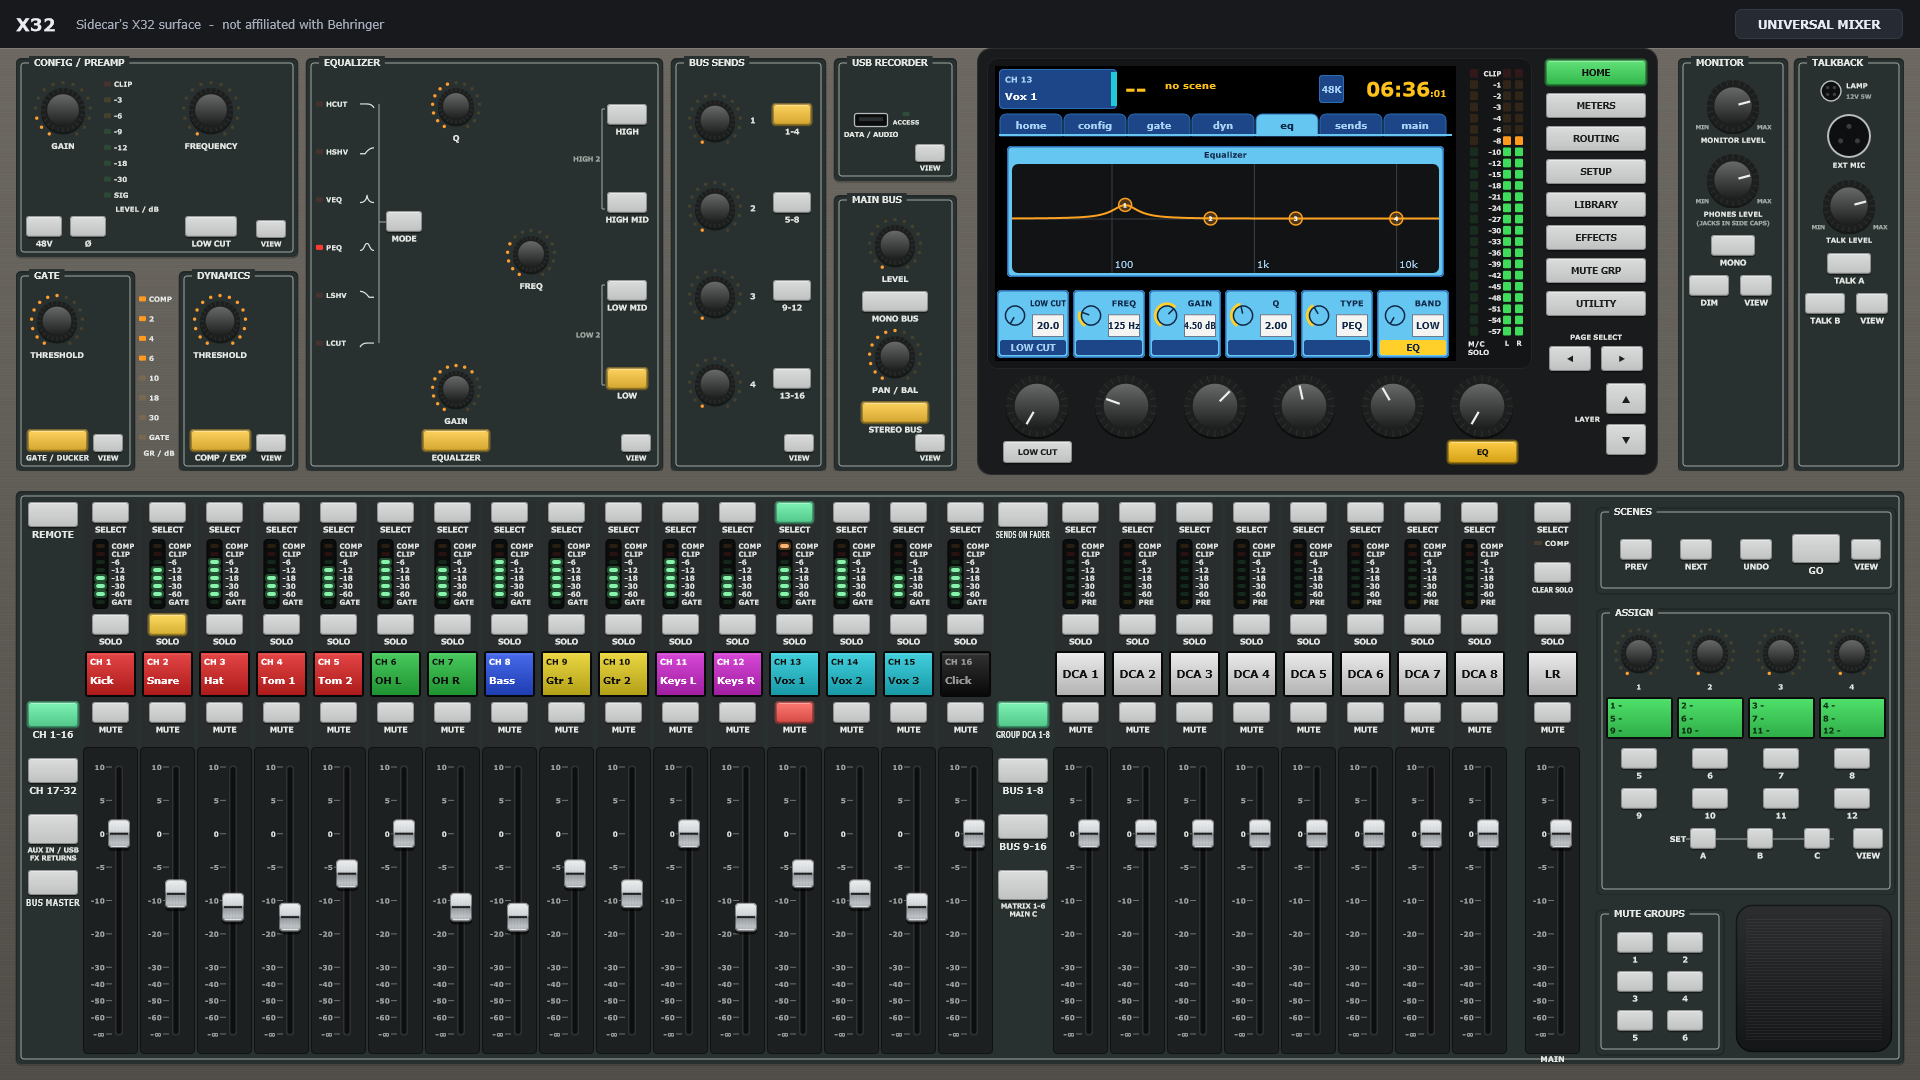
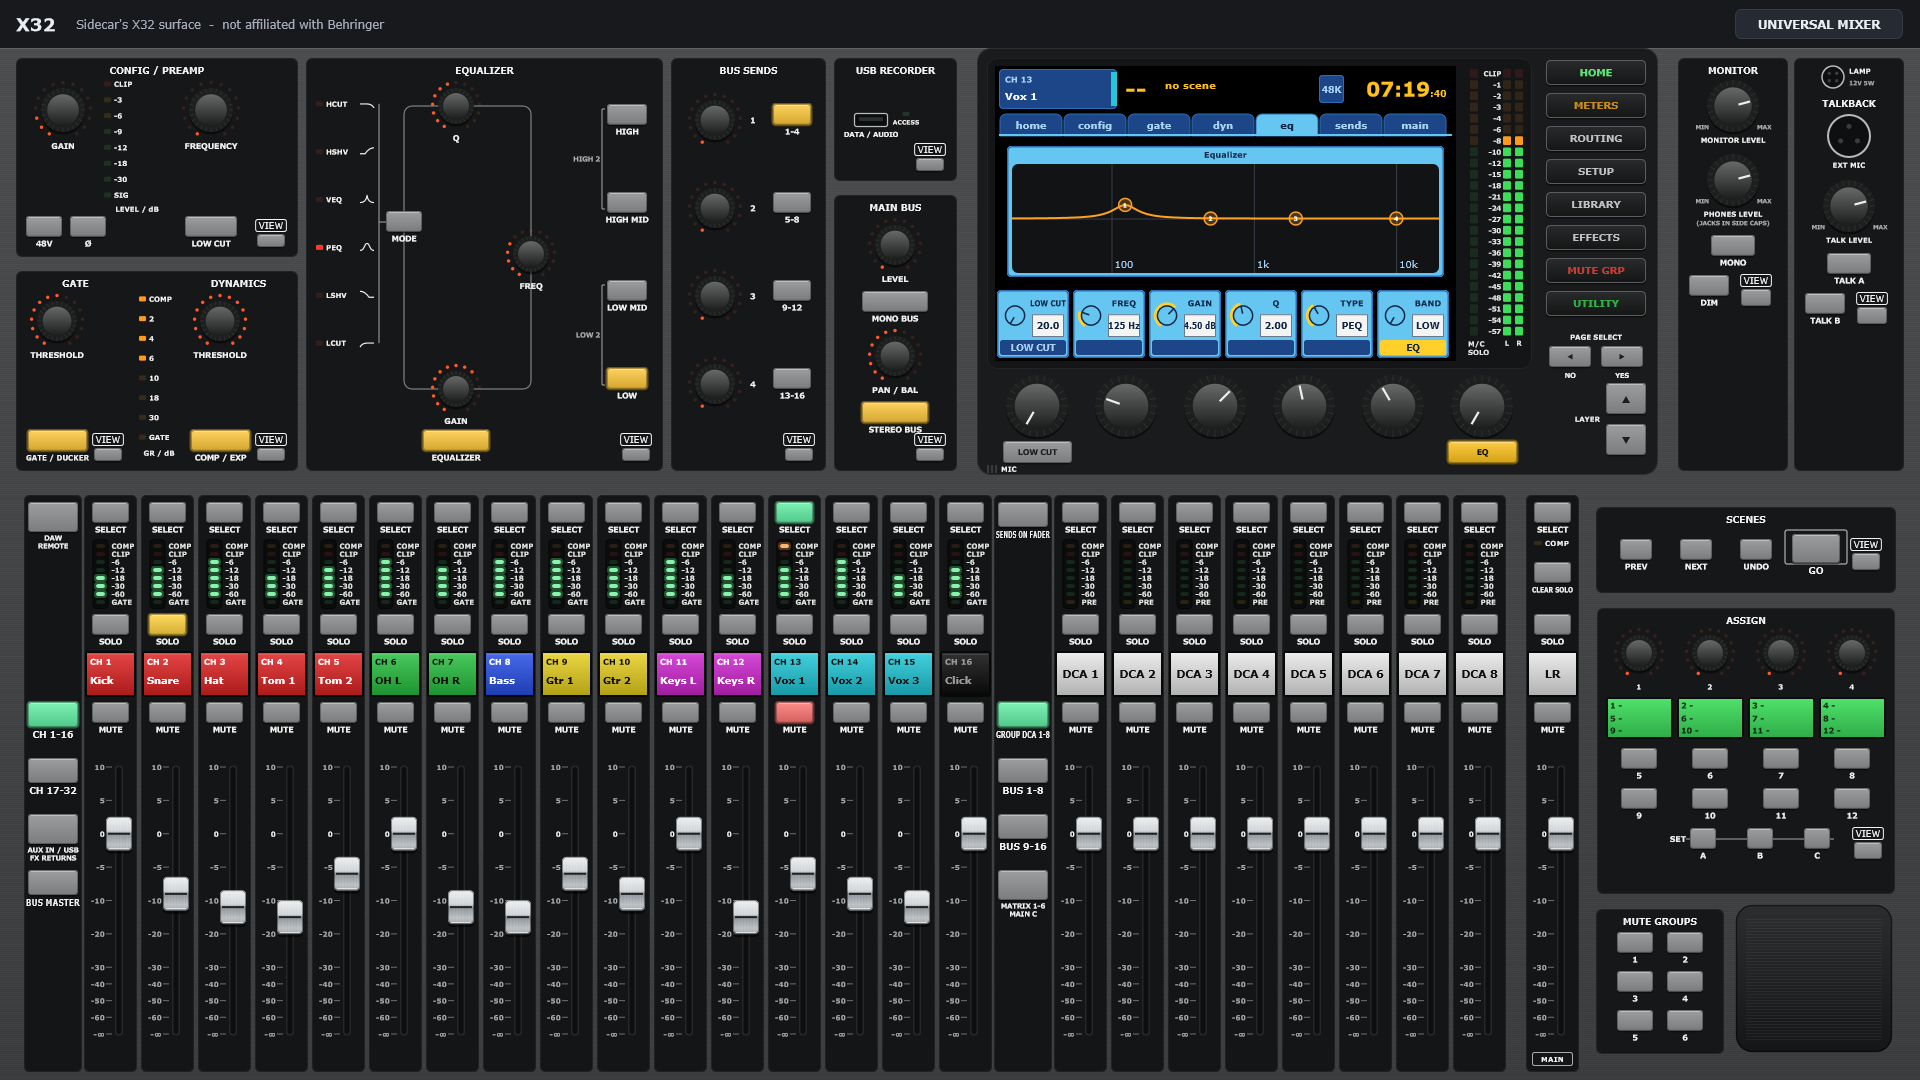
The X32 surface's colours and keys as the console's photo shows them
A neutral dark grey top with the sections on black panels (titles centred,
GATE and DYNAMICS on one), each strip on its own black band, mid-grey keys,
MUTE lit salmon, red-orange encoder rings, black screen keys with coloured
names, VIEW boxed over its keys, DAW REMOTE, TALKBACK under LAMP, NO/YES
under PAGE SELECT, MIC on the housing, the EQ's printed loop, GO's frame.

diff --git a/src/ui/X32Surface.cpp b/src/ui/X32Surface.cpp
@@ -100,6 +100,7 @@ X32Surface::X32Surface (UiContext& c)
     clearSolo.isOn = [this] { return ctx.engine.anySoloActive.load(); };
     clearSolo.onClick = [this] { clearSolos(); };
     addAndMakeVisible (clearSolo);
+    remoteKey.belowText = "DAW\nREMOTE";
     remoteKey.setEnabled (false);
     remoteKey.setTooltip ("DAW remote: Sidecar has none");
     addAndMakeVisible (remoteKey);
@@ -164,7 +165,12 @@ X32Surface::X32Surface (UiContext& c)
             if (child == &display || child == &universalKey)
                 continue;
             if (auto* k = dynamic_cast<ToggleKey*> (child))
-                k->labelBelow = true;
+            {
+                // VIEW keys have their name in a small box over them.
+                const bool view = k->getButtonText() == "VIEW";
+                k->labelBelow = ! view;
+                k->labelAbove = view;
+            }
             namesBelow (*child);
         }
     };
@@ -415,18 +421,33 @@ void X32Surface::paint (juce::Graphics& g)
     g.setColour (juce::Colours::white.withAlpha (0.08f));
     g.drawRoundedRectangle (displayArea.toFloat().expanded (9.5f), 14.0f, 1.0f);
 
-    // The fader panel: the strips' columns as darker bands, the layer columns.
-    hw::section (g, fadersArea.toFloat(), {}, look);
+    // The fader panel: each strip and layer column on its own black band, the
+    // panel's grey between them.
     const auto column = [&g] (juce::Rectangle<int> r)
     {
-        g.setColour (juce::Colour (0xff2a2d2e));
-        g.fillRoundedRectangle (r.toFloat(), 4.0f);
+        g.setColour (juce::Colour (0xff141516));
+        g.fillRoundedRectangle (r.toFloat(), 5.0f);
+        g.setColour (juce::Colours::white.withAlpha (0.05f));
+        g.drawRoundedRectangle (r.toFloat().reduced (0.5f), 5.0f, 1.0f);
     };
+    const int top = inputs.front()->getY() - 6, bottom = inputs.front()->getBottom() + 18;
+    const auto band = [&] (const juce::Component& c) { column (juce::Rectangle<int> (c.getX() + 2, top, c.getWidth() - 4, bottom - top)); };
     for (int i = 0; i < getNumInputFaders(); ++i)
-        column (inputs[(size_t) i]->getBounds().reduced (2, 0));
+        band (*inputs[(size_t) i]);
     for (auto& s : groups)
-        column (s->getBounds().reduced (2, 0));
-    column (main->getBounds().reduced (2, 0));
+        band (*s);
+    band (*main);
+    for (auto* keys : { &inputLayerKeys, &groupLayerKeys })
+        if (! keys->empty())
+            column (juce::Rectangle<int> (keys->front()->getX() - 2, top, keys->front()->getWidth() + 4, bottom - top));
+    // The display housing's MIC, at its bottom left.
+    {
+        auto mic = juce::Rectangle<float> ((float) displayArea.getX() - 2.0f, (float) displayArea.getBottom() - 2.0f, 60.0f, 12.0f);
+        g.setColour (juce::Colour (0xff3a3b3c));
+        for (int k = 0; k < 3; ++k)
+            g.fillRect (mic.getX() + 2.0f + 4.0f * (float) k, mic.getY() + 2.0f, 2.0f, 8.0f);
+        hw::silk (g, mic.withTrimmedLeft (16.0f), "MIC", look, 8.5f, juce::Justification::centredLeft);
+    }
 
     // The main strip: its COMP LED where the others have their meters.
     {
@@ -437,11 +458,17 @@ void X32Surface::paint (juce::Graphics& g)
         g.setColour (comp ? juce::Colour (0xffff9a3c) : juce::Colour (0xffff9a3c).withAlpha (0.15f));
         g.fillRoundedRectangle (led, 1.0f);
         hw::silk (g, led.withX (led.getRight() + 3.0f).withWidth (40.0f).expanded (0.0f, 4.0f), "COMP", look, 9.0f, juce::Justification::centredLeft);
-        hw::silk (g, main->getBounds().toFloat().removeFromBottom (14.0f).translated (0.0f, 12.0f), "MAIN", look, 9.5f);
+        auto name = main->getBounds().toFloat().removeFromBottom (14.0f).translated (0.0f, 12.0f).withSizeKeepingCentre (40.0f, 13.0f);
+        g.setColour (look.silkDim);
+        g.drawRoundedRectangle (name, 2.0f, 1.0f);
+        hw::silk (g, name, "MAIN", look, 9.0f);
     }
 
     // SCENES and MUTE GROUPS, and the palm rest beside them.
     hw::section (g, scenesArea.toFloat().withTrimmedTop (6.0f), "SCENES", look);
+    // GO in its printed frame.
+    g.setColour (look.silkDim);
+    g.drawRoundedRectangle (sceneKeys[3]->getBounds().toFloat().expanded (5.0f, 3.0f).withTrimmedBottom (16.0f), 2.0f, 1.2f);
     hw::section (g, muteGroupsArea.toFloat().withTrimmedTop (6.0f), "MUTE GROUPS", look);
     if (! palmRest.isEmpty() && g.clipRegionIntersects (palmRest))
     {
@@ -529,7 +556,7 @@ void X32Surface::resized()
     layerKeys (leftColumn, inputLayerKeys);
     layerKeys (midColumn, groupLayerKeys);
     sendsOnFaderKey.setBounds (midColumn.withHeight (x32::kKeyHeight + 6).reduced (2, 0));
-    remoteKey.setBounds (leftColumn.withHeight (x32::kKeyHeight + 6).reduced (2, 0));
+    remoteKey.setBounds (leftColumn.withHeight (x32::kKeyHeight + 16).reduced (2, 0));
 }
 
 } // namespace livedaw::ui

diff --git a/src/ui/universal/Widgets.cpp b/src/ui/universal/Widgets.cpp
@@ -92,7 +92,7 @@ void FaderControl::paint (juce::Graphics& g)
         }
         hw::faderSlot (g, groove, t.getY(), t.getBottom(), *look);
         if (isEnabled())
-            hw::faderCap (g, groove, yAt ((float) position), look->cap == hw::Look::Cap::Metal ? 22.0f : 28.0f, *look); // the X32's: narrow and tall
+            hw::faderCap (g, groove, yAt ((float) position), look->cap == hw::Look::Cap::Metal ? 26.0f : 28.0f, *look); // the X32's: narrow and tall
         return;
     }
     g.setFont (type::font (type::kCaption));
@@ -344,6 +344,26 @@ void ToggleKey::paintButton (juce::Graphics& g, bool highlighted, bool down)
             g.strokePath (p, juce::PathStrokeType (1.0f));
             return;
         }
+        if (textLit)
+        {
+            auto a = area.reduced (2.0f).translated (0.0f, down ? 1.0f : 0.0f);
+            g.setColour (juce::Colours::black.withAlpha (0.5f));
+            g.fillRoundedRectangle (a.translated (0.0f, 1.5f), 4.0f);
+            g.setGradientFill (juce::ColourGradient (juce::Colour (0xff2a2b2c), a.getX(), a.getY(), juce::Colour (0xff141515), a.getX(), a.getBottom(), false));
+            g.fillRoundedRectangle (a, 4.0f);
+            g.setColour (juce::Colour (0xff5a5c5e));
+            g.drawRoundedRectangle (a.reduced (0.5f), 4.0f, 1.0f);
+            const bool on = lit || halfLit;
+            g.setFont (type::font (juce::jlimit (10.0f, 13.5f, a.getHeight() * 0.48f), true));
+            if (on)
+            {
+                g.setColour (colour.withAlpha (0.35f));
+                g.drawText (getButtonText(), a.translated (0.0f, 0.5f).expanded (0.5f), juce::Justification::centred);
+            }
+            g.setColour (on ? colour.brighter (0.25f) : colour.withMultipliedBrightness (0.8f));
+            g.drawText (getButtonText(), a, juce::Justification::centred);
+            return;
+        }
         if (labelBelow)
         {
             // The name under the key, on two lines where it has a line break.
@@ -367,7 +387,11 @@ void ToggleKey::paintButton (juce::Graphics& g, bool highlighted, bool down)
             g.setFont (font);
             g.drawFittedText (printed, label.toNearestInt(), juce::Justification::centred, 1, 0.7f);
             const float w = juce::jmin (label.getWidth() - 4.0f, juce::GlyphArrangement::getStringWidth (font, printed) + 2.0f);
-            g.fillRect (juce::Rectangle<float> (w, 1.0f).withCentre ({ label.getCentreX(), label.getBottom() - 0.5f }));
+            if (look->backlit)
+                // The X32's: the name in a small outlined box.
+                g.drawRoundedRectangle (juce::Rectangle<float> (w + 4.0f, label.getHeight() - 1.0f).withCentre (label.getCentre()), 2.0f, 1.0f);
+            else
+                g.fillRect (juce::Rectangle<float> (w, 1.0f).withCentre ({ label.getCentreX(), label.getBottom() - 0.5f }));
             hw::key (g, area.reduced (3.0f, 2.0f), {}, lit || halfLit, down, colour, *look, face, showLed);
             return;
         }

diff --git a/src/ui/HardwareLook.cpp b/src/ui/HardwareLook.cpp
@@ -20,16 +20,19 @@ const Look& Look::x32()
 {
     static const Look look = [] {
         Look l;
-        l.panelTop = c (0xff6b6760);
-        l.panelBottom = c (0xff4f4c47);
-        l.frame = c (0xff2c2b29);
-        l.section = c (0xff28312f);
-        l.sectionLine = c (0xffc9d0cc);
-        l.silk = c (0xffe6e9e6);
-        l.silkDim = c (0xffa3aaa6);
-        l.keyTop = c (0xffdcdedd);
-        l.keyBottom = c (0xffbfc2c1);
+        // As the console photographs: a neutral dark grey top, its sections and
+        // the faders' strips on black, white silkscreen, mid-grey rubber keys.
+        l.panelTop = c (0xff4a4b4c);
+        l.panelBottom = c (0xff3a3b3c);
+        l.frame = c (0xff1e1f20);
+        l.section = c (0xff161718);
+        l.sectionLine = c (0xff9a9c9e);
+        l.silk = c (0xfff2f2f2);
+        l.silkDim = c (0xffa8aaac);
+        l.keyTop = c (0xff9c9e9f);
+        l.keyBottom = c (0xff7a7c7d);
         l.keyText = c (0xff1c1e1e);
+        l.blackSections = true;
         l.backlit = true;
         l.slot = c (0xff0d0e0e);
         l.capTop = c (0xffd7d9d8);
@@ -42,7 +45,7 @@ const Look& Look::x32()
         l.lcdDim = c (0xff8b959c);
         l.lcdBezel = c (0xff222423);
         l.cap = Cap::Metal;
-        l.knobRing = c (0xffff9d2e);
+        l.knobRing = c (0xffff5a2a); // red-orange LEDs
         l.keyRadius = 3.0f;
         return l;
     }();
@@ -156,6 +159,21 @@ void section (juce::Graphics& g, juce::Rectangle<float> area, const juce::String
 {
     if (! g.clipRegionIntersects (area.toNearestInt().expanded (2)))
         return;
+    if (l.blackSections)
+    {
+        // A black panel, the title centred along its top.
+        g.setColour (l.section);
+        g.fillRoundedRectangle (area, 6.0f);
+        g.setColour (juce::Colours::white.withAlpha (0.05f));
+        g.drawRoundedRectangle (area.reduced (0.5f), 6.0f, 1.0f);
+        if (title.isNotEmpty())
+        {
+            g.setColour (l.silk);
+            g.setFont (universal::type::font (11.0f, true));
+            g.drawText (title, area.withHeight (20.0f).translated (0.0f, 2.0f), juce::Justification::centred);
+        }
+        return;
+    }
     g.setColour (l.section);
     g.fillRoundedRectangle (area, 5.0f);
     g.setColour (juce::Colours::black.withAlpha (0.35f));

diff --git a/src/ui/X32Display.cpp b/src/ui/X32Display.cpp
@@ -233,6 +233,7 @@ Display::Display (UiContext& c, const Theme& t)
     for (int s = 0; s < 8; ++s)
     {
         auto key = std::make_unique<ToggleKey> (kScreenNames[s], kScreenKeyColours[s], t);
+        key->textLit = true; // black keys, their names in their colours
         key->isOn = [this, s] { return (int) screen == s; };
         key->onClick = [this, s] { showScreen ((Screen) s); };
         addAndMakeVisible (*key);
@@ -1272,10 +1273,13 @@ void Display::paint (juce::Graphics& g)
     g.setColour (kGlass);
     g.fillRect (screenArea);
     // PAGE SELECT and LAYER, printed beside their keys.
-    if (g.clipRegionIntersects (pageLabel.getUnion (layerLabel)))
+    if (g.clipRegionIntersects (pageLabel.getUnion (layerLabel).getUnion (pagePrev.getBounds().getUnion (pageNext.getBounds()).withHeight (pagePrev.getHeight() + 14))))
     {
         hw::silk (g, pageLabel.toFloat(), "PAGE SELECT", hw::Look::x32(), 8.5f);
         hw::silk (g, layerLabel.toFloat(), "LAYER", hw::Look::x32(), 8.5f, juce::Justification::centredRight);
+        // NO and YES under PAGE SELECT's keys.
+        hw::silk (g, pagePrev.getBounds().toFloat().withY ((float) pagePrev.getBottom() + 1.0f).withHeight (11.0f), "NO", hw::Look::x32(), 8.0f);
+        hw::silk (g, pageNext.getBounds().toFloat().withY ((float) pageNext.getBottom() + 1.0f).withHeight (11.0f), "YES", hw::Look::x32(), 8.0f);
     }
     // Only the parts being repainted (the clock and meters repaint often).
     if (g.clipRegionIntersects (statusArea))
@@ -1982,7 +1986,7 @@ void Display::resized()
     }
     side.removeFromTop (sizes::kGap);
     pageLabel = side.removeFromTop (14);
-    auto pages = side.removeFromTop (keyH);
+    auto pages = side.removeFromTop (keyH - 4);
     pagePrev.setBounds (pages.removeFromLeft (pages.getWidth() / 2).reduced (3, 0));
     pageNext.setBounds (pages.reduced (3, 0));
 

diff --git a/src/ui/X32ChannelSection.cpp b/src/ui/X32ChannelSection.cpp
@@ -264,9 +264,32 @@ int ChannelSection::typeIndex() const
 void ChannelSection::paint (juce::Graphics& g)
 {
     const auto& look = hw::Look::x32();
-    // Each section on its slate panel, outlined in silkscreen, its title in the outline.
-    for (auto& s : sections)
-        hw::section (g, s.area.toFloat().withTrimmedTop (6.0f), s.title, look);
+    // Each section on its black panel, its title over it; GATE and DYNAMICS
+    // share one, the GR meter between them.
+    for (size_t i = 0; i < sections.size(); ++i)
+    {
+        const auto& s = sections[i];
+        if (i == 1)
+        {
+            const auto both = s.area.getUnion (sections[2].area).toFloat().withTrimmedTop (6.0f);
+            hw::section (g, both, {}, look);
+            for (size_t k : { (size_t) 1, (size_t) 2 })
+                hw::silk (g, sections[k].area.toFloat().withTrimmedTop (8.0f).withHeight (20.0f), sections[k].title, look, 11.0f);
+            continue;
+        }
+        if (i != 2)
+            hw::section (g, s.area.toFloat().withTrimmedTop (6.0f), s.title, look);
+    }
+    // EQUALIZER's printed lines: Q, FREQ, GAIN and MODE on one loop.
+    if (eqQ.isVisible())
+    {
+        juce::Path loop;
+        const float l = (float) mode.getBounds().getCentreX(), r = (float) eqFreq.getBounds().getCentreX();
+        const float t = (float) eqQ.getBounds().getCentreY(), b = (float) eqGain.getBounds().getCentreY();
+        loop.addRoundedRectangle (l, t, r - l, b - t, 8.0f);
+        g.setColour (look.silkDim.withAlpha (0.7f));
+        g.strokePath (loop, juce::PathStrokeType (1.2f));
+    }
 
     // The encoders' names, printed under them.
     const auto name = [&g, &look] (const juce::Component& k, const juce::String& text)

diff --git a/src/ui/X32MonitorSection.cpp b/src/ui/X32MonitorSection.cpp
@@ -81,7 +81,9 @@ void MonitorSection::paint (juce::Graphics& g)
     // Two sections, as on the panel: MONITOR, and TALKBACK with the EXT MIC socket.
     const auto& look = hw::Look::x32();
     hw::section (g, monitorArea.toFloat().withTrimmedTop (6.0f), "MONITOR", look);
-    hw::section (g, talkArea.toFloat().withTrimmedTop (6.0f), "TALKBACK", look);
+    // TALKBACK's name under the LAMP socket, over EXT MIC.
+    hw::section (g, talkArea.toFloat().withTrimmedTop (6.0f), {}, look);
+    hw::silk (g, juce::Rectangle<float> ((float) talkArea.getX(), (float) socket.getY() - 18.0f, (float) talkArea.getWidth(), 14.0f), "TALKBACK", look, 11.0f);
     const auto name = [&g, &look] (const juce::Component& k, const juce::String& text)
     {
         hw::silk (g, k.getBounds().toFloat().withY ((float) k.getBottom()).withHeight (12.0f).expanded (20.0f, 0.0f), text, look, 8.5f);
@@ -160,8 +162,9 @@ void MonitorSection::resized()
     {
         auto col = column (talkArea);
         const int size = juce::jmin (col.getWidth() - 10, 56);
-        lamp = col.removeFromTop (26).withSizeKeepingCentre (22, 22).translated (-18, 0);
-        col.removeFromTop (8);
+        col.setTop (talkArea.getY() + 10);
+        lamp = col.removeFromTop (30).withSizeKeepingCentre (24, 24).translated (-16, 0);
+        col.removeFromTop (20); // TALKBACK
         socket = col.removeFromTop (size - 8).withSizeKeepingCentre (size - 12, size - 12);
         col.removeFromTop (18);
         knobAt (talk, col, size);

diff --git a/src/ui/X32Surface.h b/src/ui/X32Surface.h
@@ -19,7 +19,7 @@ namespace x32
     constexpr int kScribble = 42;  // the scribble strip's LCD
     constexpr int kKeyHeight = 34; // a key and its name printed under it
     // The X32's lit keys: SELECT mint, SOLO yellow, MUTE red.
-    const juce::Colour kSelectLit (0xff62f0a6), kSoloLit (0xffffd23c), kMuteLit (0xffff5a52);
+    const juce::Colour kSelectLit (0xff62f0a6), kSoloLit (0xffffd23c), kMuteLit (0xffff7470);
 
     /** The X32's scribble colours (`Palette::X32`, indexes 1-16): OFF and seven
         colours lit behind dark text, then the same eight inverted (coloured
@@ -302,12 +302,6 @@ namespace x32
 
         void paint (juce::Graphics& g) override
         {
-            // The fader's bay: a darker recess down the strip.
-            const auto bay = fader.getBounds().toFloat().expanded (1.0f, 6.0f);
-            g.setColour (juce::Colour (0xff1d2021));
-            g.fillRoundedRectangle (bay, 4.0f);
-            g.setColour (juce::Colours::black.withAlpha (0.45f));
-            g.drawRoundedRectangle (bay.reduced (0.5f), 4.0f, 1.0f);
             auto area = scribbleArea().toFloat();
             if (isEmpty())
             {

diff --git a/src/ui/HardwareLook.h b/src/ui/HardwareLook.h
@@ -24,6 +24,10 @@ struct Look
     // The LCD: backlight and pixels.
     juce::Colour lcd, lcdPixel, lcdDim, lcdBezel;
     float keyRadius = 3.0f;
+    /** Sections as plain black panels, their titles centred over them, no
+        outline (the X32's); else a panel outlined in silkscreen, the title in
+        the outline's top left. */
+    bool blackSections = false;
     /** A key's LED (a look that isn't backlit): its size, round where they're equal. */
     float ledWidth = 14.0f, ledHeight = 3.5f;
 

diff --git a/src/ui/X32AssignSection.cpp b/src/ui/X32AssignSection.cpp
@@ -72,7 +72,7 @@ AssignSection::AssignSection (UiContext& c, const Theme& t) : ctx (c), theme (t)
     }
     for (int s = 0; s < 3; ++s)
     {
-        auto key = std::make_unique<ToggleKey> (juce::String ("SET ") + kSets[s], juce::Colour (0xffff4b3e), t);
+        auto key = std::make_unique<ToggleKey> (juce::String ("SET ") + kSets[s], juce::Colour (0xffff7470), t);
         key->belowText = kSets[s];
         key->onClick = [this, s] { setSet (s); };
         key->isOn = [this, s] { return set == s; };

diff --git a/src/ui/universal/Widgets.h b/src/ui/universal/Widgets.h
@@ -162,6 +162,9 @@ public:
         Right
     };
     Shape shape = Shape::Rect;
+    /** With a look: a black key whose name glows in its colour (the X32's
+        screen keys), brighter while on. */
+    bool textLit = false;
     void refresh();
 
     void paintButton (juce::Graphics&, bool highlighted, bool down) override;

diff --git a/CHANGELOG.md b/CHANGELOG.md
@@ -436,6 +436,16 @@ Phase 6, the Yamaha 02R (`docs/UNIVERSAL_MIXER.md`), begins.
     scale (measured on the drawings): 0 dB is step 100 on a ProMix 01 (was 115)
     and 101 on an 02R channel (was 103); STEREO's 0 dB stays at the top. Their
     MIDI follows the same law.
+- The X32 surface's colours and keys checked against the photo of the whole
+  console: a neutral dark grey top, its sections on black panels with their
+  titles centred over them (GATE and DYNAMICS on one), each fader strip and
+  layer column on its own black band; the keys mid-grey rubber (MUTE lit
+  salmon, SET A and the mute groups the same); the encoders' rings red-orange;
+  the screen keys black with their names in their colours; VIEW named in a
+  small box over its key; DAW REMOTE; TALKBACK named under the LAMP socket;
+  NO and YES under PAGE SELECT; MIC on the display's housing; EQUALIZER's
+  printed loop joining Q, FREQ, GAIN and MODE; GO in its frame; MAIN boxed; a
+  wider fader cap.
 
   `ui::hw` (`src/ui/HardwareLook.*`) draws them. Keys, faders and knobs take a
   console's look when its surface asks; the Universal Mixer and the WING are
